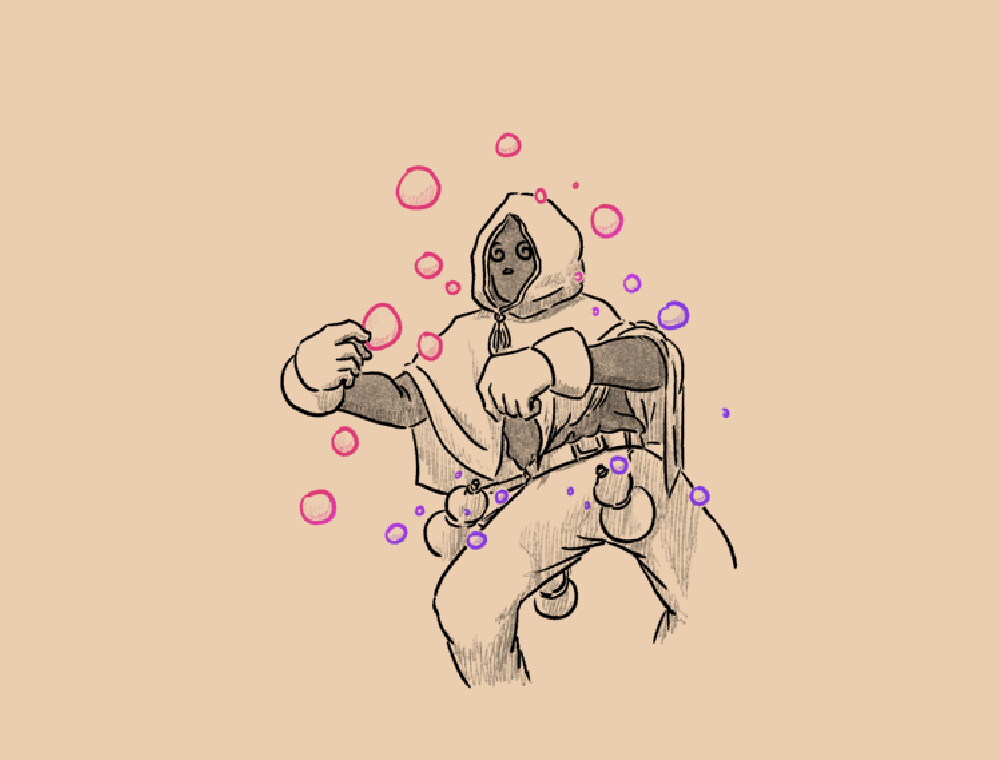
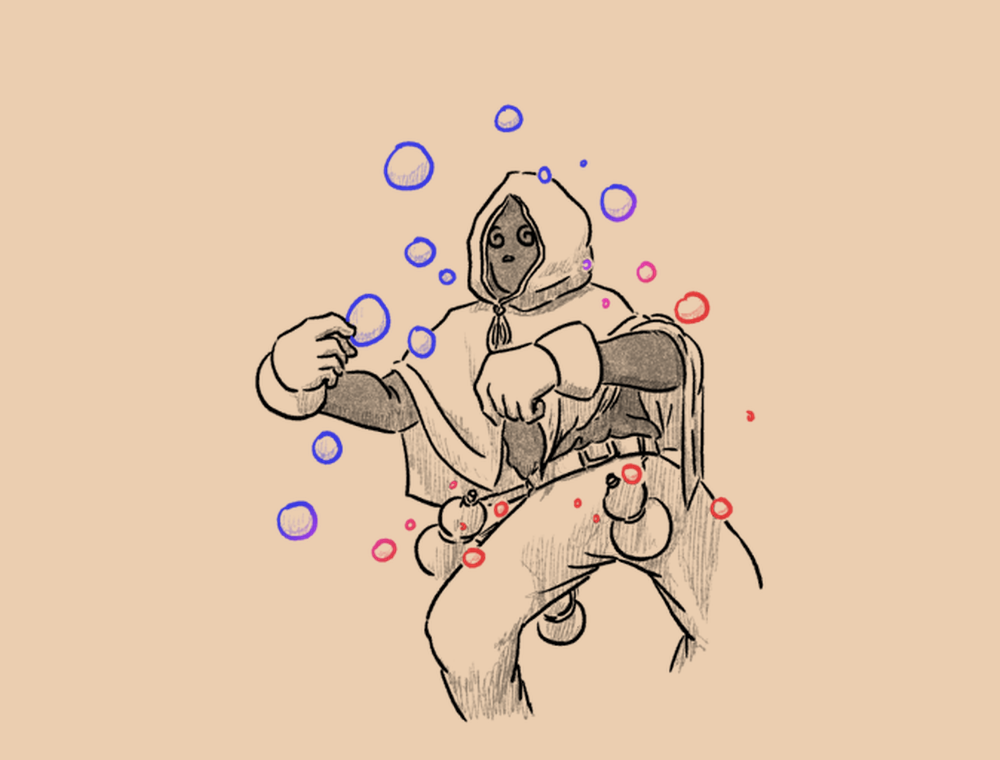
醉拳（DrunkenFist）卡色与卡图改为红蓝双色
* GaoshouCardColor: RedPurple -> RedBlue
* 卡图重渲染：只改"饱和度 >= 0.5 的彩色元素"（悬浮气泡光圈）的色相，纸底与墨线不动

做法（见 卡图提取工具与改色说明.md 与交接文档 §18）：
  Texture2D/醉拳.json 取 offset/size -> dxt5_decode + resources.assets.resS
  -> 第 9 列 band:0,1,1,0,0.1,0,0,255,255,0,0 -> composite 到纸底 (235,206,176)，inkScale=1.0

两个实测结论（都反直觉，别踩）：
1. 双色必须用 band:（硬过渡），**不能**用平滑 grad: —— grad 的 t 在整幅图上连续插值，
   而卡面的彩色元素是一颗颗小圆圈，圈内会被拉成浑浊的中间色（紫）。
   band 把 t<0.45 / t>0.55 压成两个纯色，圆圈才落回纯蓝或纯红。
2. v 垂直翻转后 color1 实际落在**左上**，不是文档 §2.3 写的"左下"。用蓝/红像素质心实测：
   blue(416,279) 左上 / red(582,458) 右下。
   参数串与同批的刮痧术 PunchingTheAir 完全一致，保持同批卡风格统一。

工具：_imgwork/tools/misc/recolor_card_art.py（新增，可复用于逐卡改色）。

Changed region(s): [[0.248, 0.1211, 0.775, 0.9684]]

diff --git a/GaoshouCode/Cards/DrunkenFist.cs b/GaoshouCode/Cards/DrunkenFist.cs
@@ -26,7 +26,7 @@ public sealed class DrunkenFist : ModCardTemplate
     private const TargetType CardTarget = TargetType.AllEnemies;
     private const bool ShowInCardLibrary = true;
 
-    public GaoshouCardColor CardColor => GaoshouCardColor.RedPurple;
+    public GaoshouCardColor CardColor => GaoshouCardColor.RedBlue;
 
     public override CardAssetProfile AssetProfile => new(
         PortraitPath: $"{Entry.ResPath}/images/cards/{GetType().Name}.png");
